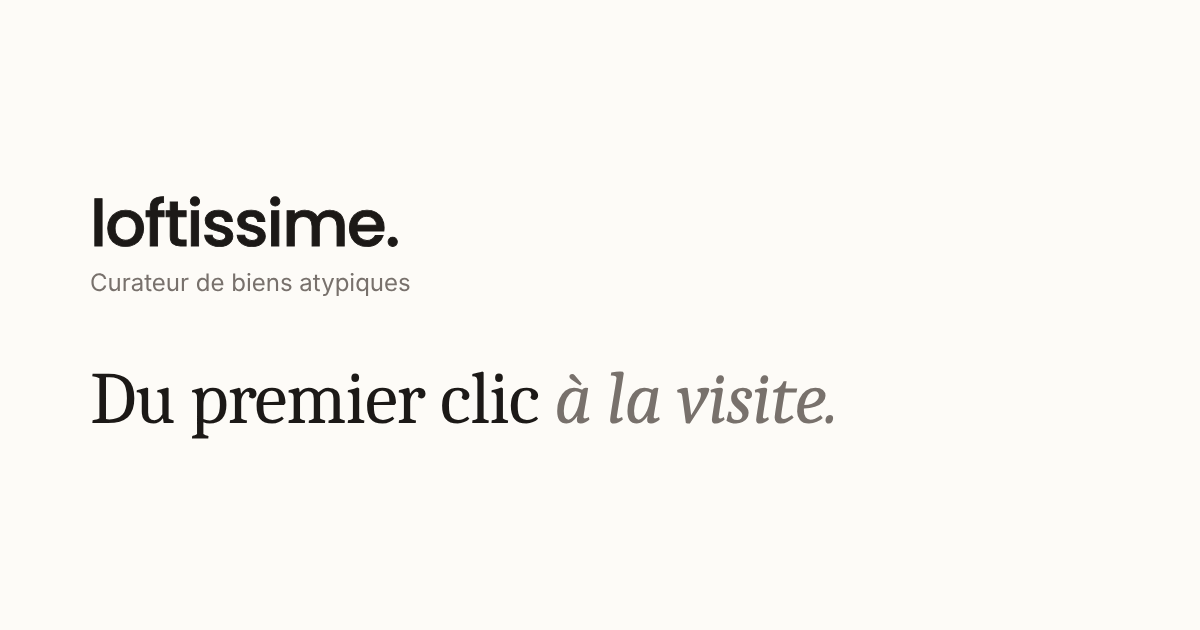
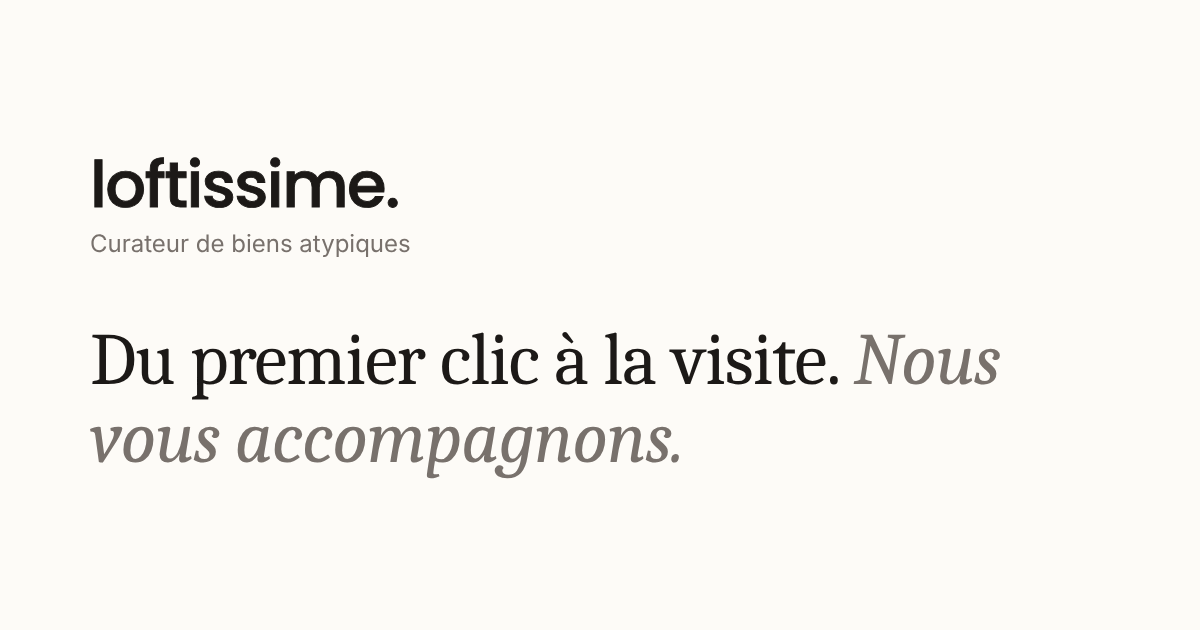
Mode d'emploi : « Du premier clic à la visite. Nous vous accompagnons. »
Claude-Session: https://claude.ai/code/session_015aKJiDLUy7h6cRtFn1LWuo

Changed region(s): [[0.0617, 0.5127, 0.8325, 0.754], [0.0617, 0.2413, 0.3392, 0.4825]]

diff --git a/frontend/app/mode-d-emploi/page.tsx b/frontend/app/mode-d-emploi/page.tsx
@@ -17,7 +17,7 @@ export default function ModeEmploiPage() {
       <header className="max-w-3xl mx-auto px-6 pt-14 md:pt-24 pb-10 md:pb-14">
         <p className="text-xs uppercase tracking-widest text-stone-500">Mode d&apos;emploi</p>
         <h1 className="mt-6 text-5xl md:text-7xl font-serif tracking-tight text-stone-900 leading-[1.02]">
-          Du premier clic <span className="italic text-stone-500">à la visite.</span>
+          Du premier clic à la visite. <span className="italic text-stone-500">Nous vous accompagnons.</span>
         </h1>
       </header>
 
